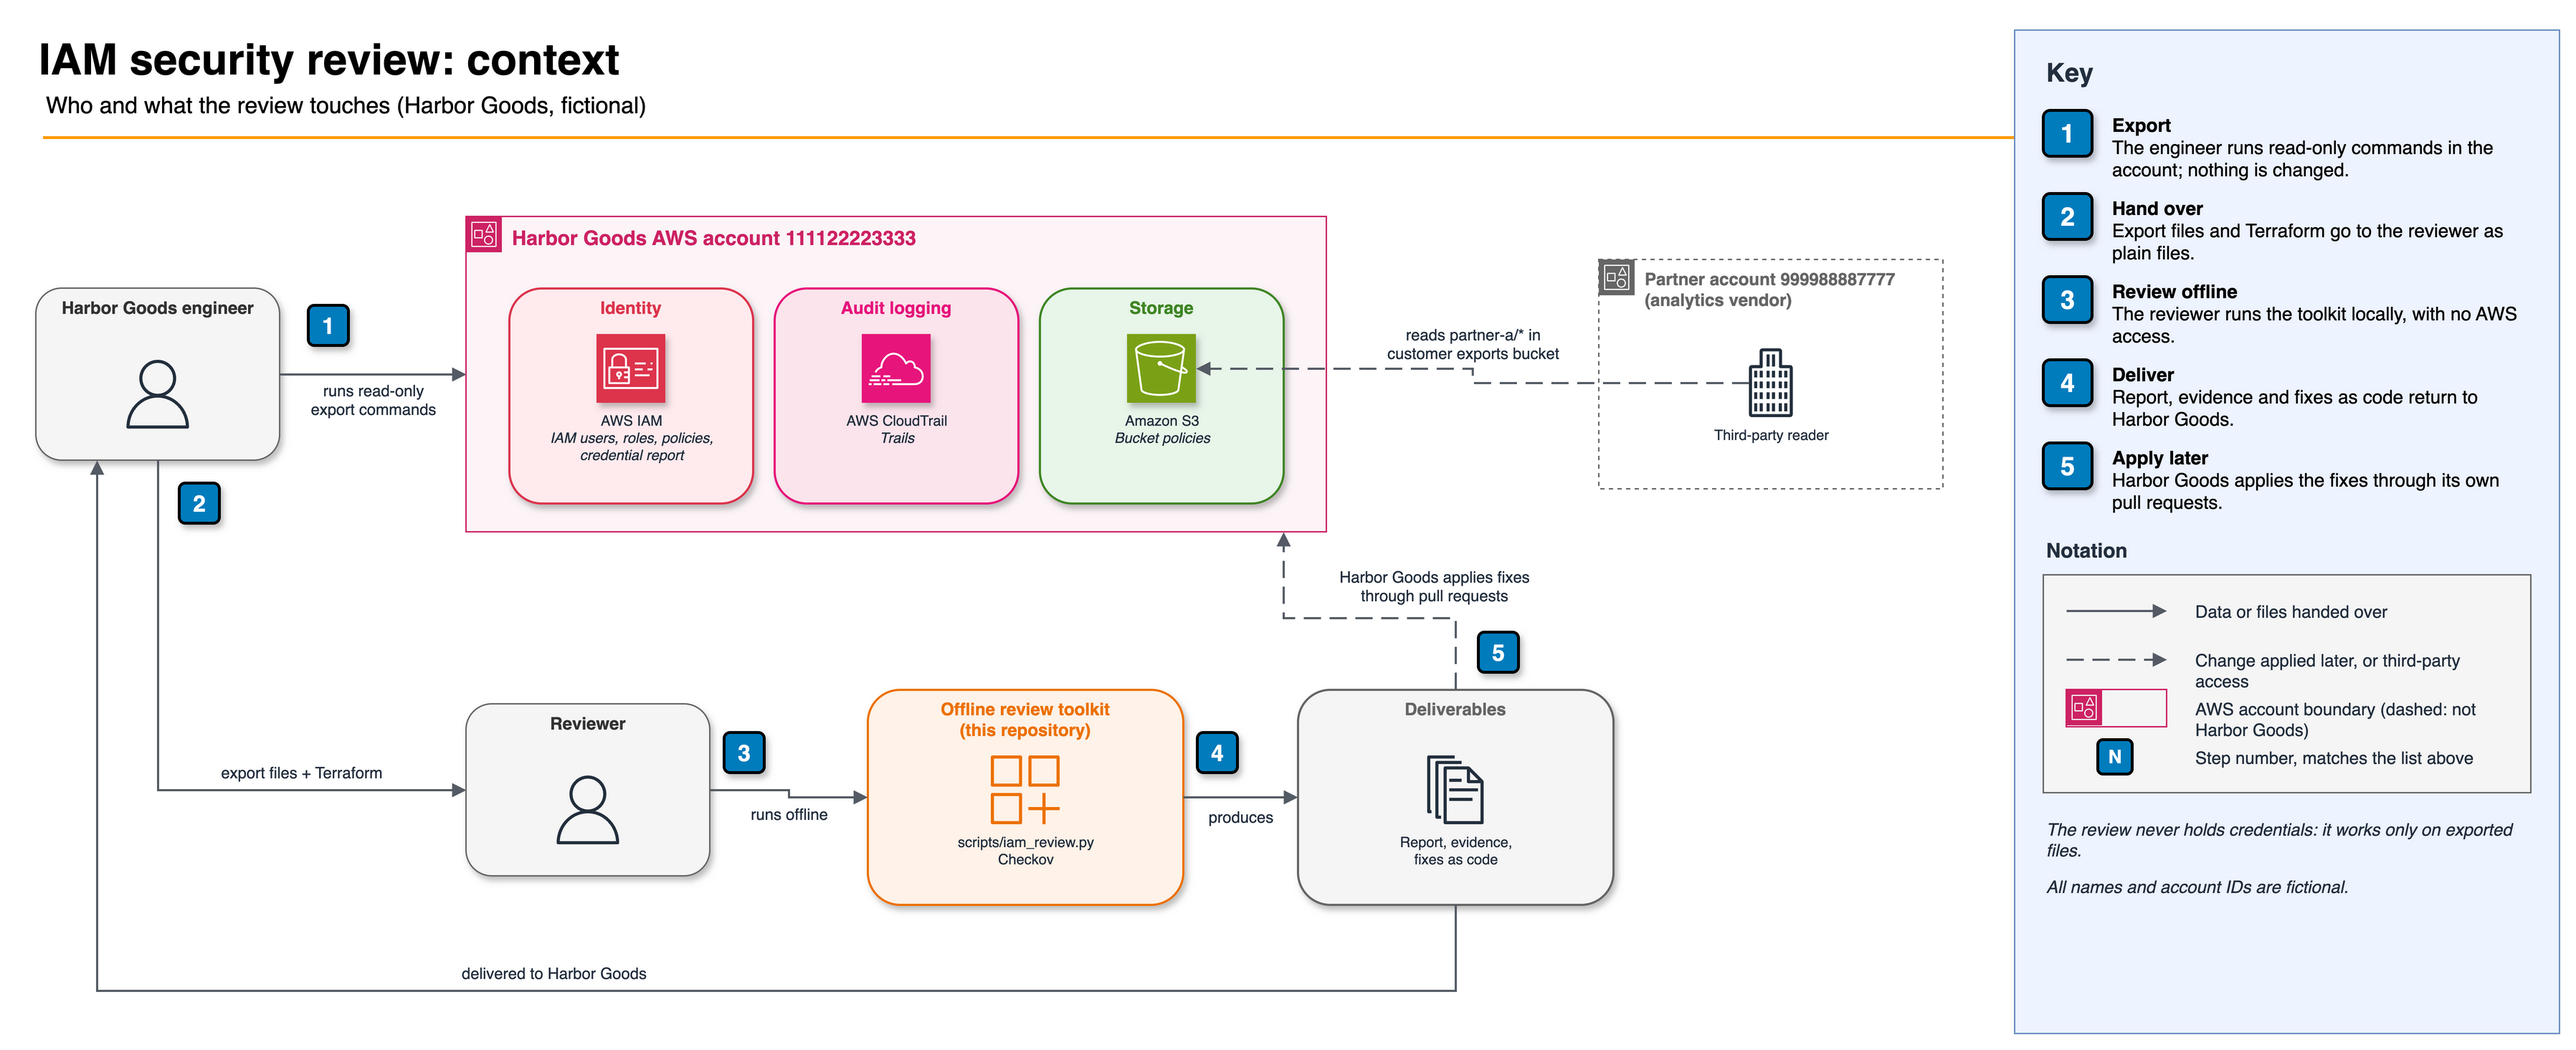
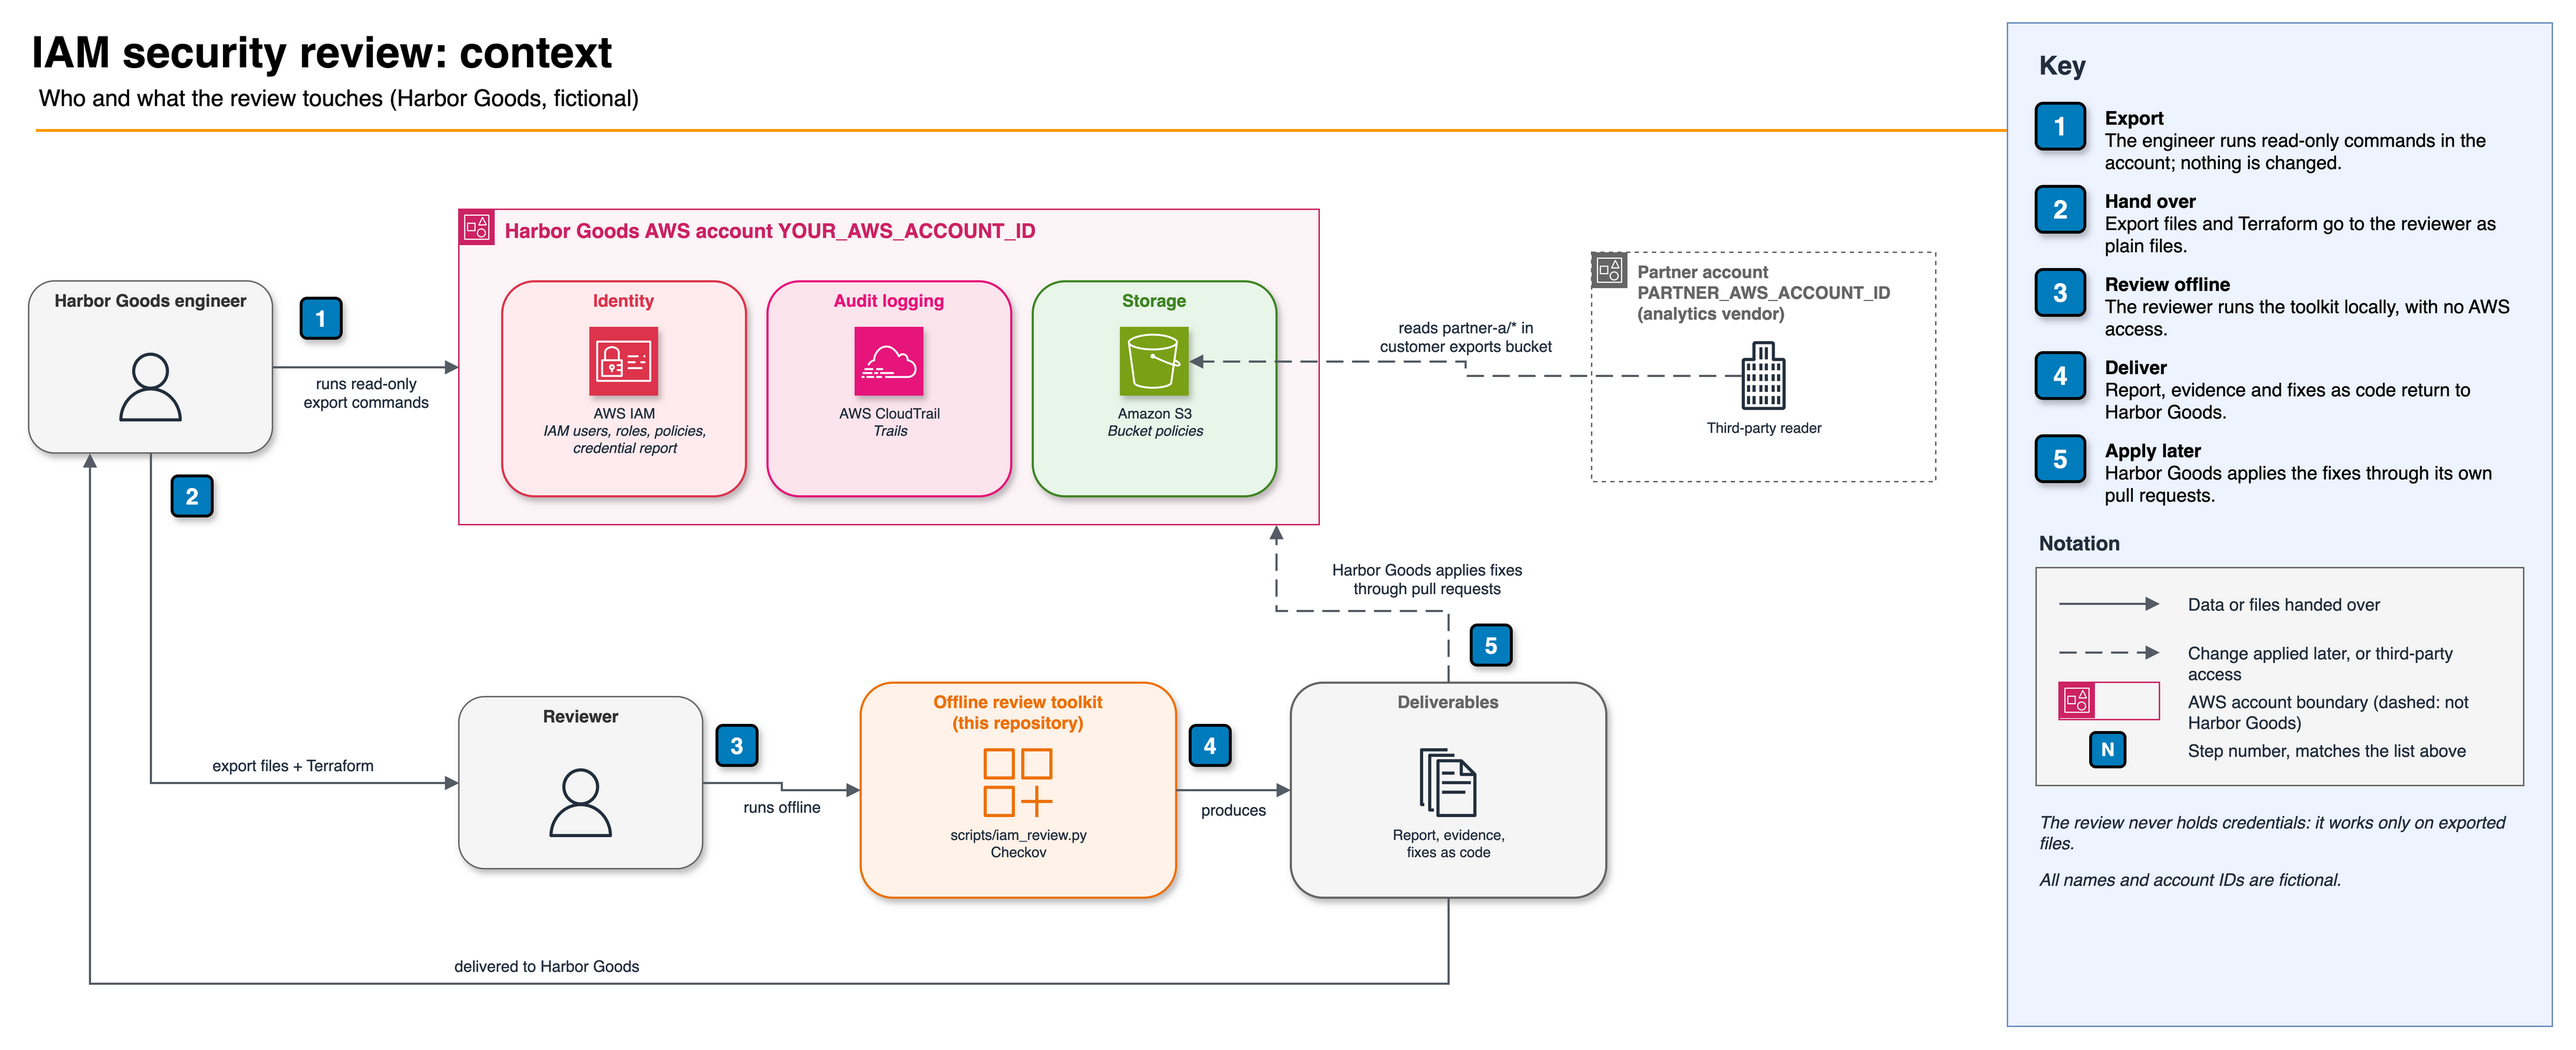
fix: placeholder account IDs and a neutral byline in the review and report

diff --git a/tests/test_report.py b/tests/test_report.py
@@ -6,6 +6,7 @@ files that `make evidence` produces, when a count drifts, or when a link breaks.
 
 from __future__ import annotations
 
+import json
 import re
 from pathlib import Path
 
@@ -32,6 +33,16 @@ def hits(text: str) -> list[str]:
     return [line for line in text.splitlines() if HIT.match(line)]
 
 
+def redact_account_ids(text: str) -> str:
+    """The report shows account IDs as placeholders; map the evidence the same way."""
+    scope_file = REPO / "data" / "synthetic" / "after" / "export" / "review-scope.json"
+    scope = json.loads(scope_file.read_text())
+    text = text.replace(scope["account_id"], "<account-id>")
+    for account in scope["trusted_account_ids"]:
+        text = text.replace(account, "<partner-account-id>")
+    return text
+
+
 def cited_hits() -> list[str]:
     blocks = re.findall(r"```text\n(.*?)```", REPORT, re.S)
     return [line for block in blocks for line in hits(block)]
@@ -42,7 +53,7 @@ def markdown_files() -> list[Path]:
 
 
 def test_every_quoted_hit_is_in_the_evidence_and_every_hit_is_quoted():
-    evidence = hits((EVIDENCE / "iam-review-before.txt").read_text())
+    evidence = hits(redact_account_ids((EVIDENCE / "iam-review-before.txt").read_text()))
     cited = cited_hits()
     assert sorted(set(cited)) == sorted(evidence)
 
@@ -102,3 +113,8 @@ def test_only_documentation_account_ids_appear():
             continue
         found |= set(re.findall(r"(?<![\w.-])\d{12}(?!\w)", path.read_text(errors="ignore")))
     assert found <= ALLOWED_ACCOUNT_IDS, sorted(found - ALLOWED_ACCOUNT_IDS)
+
+
+def test_report_shows_no_account_ids():
+    for text in (REPORT, EVIDENCE_MAP):
+        assert not re.findall(r"(?<![\w.-])\d{12}(?!\w)", text)

diff --git a/report/REPORT.md b/report/REPORT.md
@@ -1,19 +1,19 @@
 # AWS IAM and security configuration review
 
-> **This sample covers a FICTIONAL client, Harbor Goods, a mid-size retailer with account `111122223333`.**
+> **This sample covers a FICTIONAL client, Harbor Goods, a mid-size retailer with account `<account-id>`.**
 > The client, its staff and its account are fictional. Each repository in this portfolio is a separate
 > engagement with Harbor Goods, a fictional mid-size retailer. The repository files reproduce all findings below
 > through `make verify`.
 
 | Item | Value |
 | --- | --- |
-| Account | `111122223333` (fictional), home region `us-east-1` |
+| Account | `<account-id>` (fictional), home region `us-east-1` |
 | Method | Offline review of read-only exports plus the account's Terraform; no write access was used |
 | Inputs | [`data/synthetic/before/export/`](../data/synthetic/before/export/), [`data/synthetic/before/terraform/`](../data/synthetic/before/terraform/) |
 | Tools | [`scripts/iam_review.py`](../scripts/iam_review.py) (17 checks), Checkov 3.3.19 (Terraform) |
 | Method detail | [`docs/methodology.md`](../docs/methodology.md) |
 | Evidence | [`evidence/`](../evidence/) holds the unedited output of both tools |
-| Prepared by | Alex Garcia |
+| Prepared by | Independent AWS consultant |
 
 ## Executive summary
 
@@ -93,7 +93,7 @@ within one prefix and updating one Lambda function.
  "Resource": "arn:aws:s3:::harborgoods-release-artifacts/reporting-app/*"},
 {"Sid": "DeployOneFunction", "Effect": "Allow",
  "Action": ["lambda:GetFunction", "lambda:UpdateFunctionCode", "lambda:PublishVersion"],
- "Resource": "arn:aws:lambda:us-east-1:111122223333:function:reporting-app"}
+ "Resource": "arn:aws:lambda:us-east-1:<account-id>:function:reporting-app"}
 ```
 
 Validate the pipeline's required actions before the switch, using either 90 days of the role's CloudTrail events or
@@ -214,12 +214,12 @@ changes for role and policy updates rather than console edits.
 
 ```json
 {"Sid": "PassOnlyAppRolesToEc2WithMfa", "Effect": "Allow", "Action": "iam:PassRole",
- "Resource": "arn:aws:iam::111122223333:role/app-*",
+ "Resource": "arn:aws:iam::<account-id>:role/app-*",
  "Condition": {"StringEquals": {"iam:PassedToService": "ec2.amazonaws.com"},
                "Bool": {"aws:MultiFactorAuthPresent": "true"}}},
 {"Sid": "StopAndTerminatePlatformInstancesOnly", "Effect": "Allow",
  "Action": ["ec2:StopInstances", "ec2:TerminateInstances"],
- "Resource": "arn:aws:ec2:*:111122223333:instance/*",
+ "Resource": "arn:aws:ec2:*:<account-id>:instance/*",
  "Condition": {"StringEquals": {"aws:ResourceTag/team": "platform"}}}
 ```
 
@@ -291,17 +291,17 @@ Apply the secure bucket baseline to the destination bucket. Implementation is in
 **Evidence:**
 
 ```text
-MEDIUM   S3-002   s3://harborgoods-customer-exports: account 999988887777 allowed s3:*
+MEDIUM   S3-002   s3://harborgoods-customer-exports: account <partner-account-id> allowed s3:*
 ```
 
-**Impact.** The Sid identifies account `999988887777` as the analytics vendor. Its permissions cover reading,
+**Impact.** The Sid identifies account `<partner-account-id>` as the analytics vendor. Its permissions cover reading,
 overwriting and deleting all exports, plus changing bucket configuration. A grant to that account's root lets
 the vendor's IAM administrators decide which identities within the account receive access.
 
 **Recommended fix.** Document the vendor as an approved third party in the review scope. Authorize a single named
 role to list and read only its prefix. Give the bucket a separate KMS key, with a policy that permits the role to
 decrypt solely through S3 (`kms:ViaService`). This keeps the vendor from using the audit-log encryption key.
-The client verified the vendor relationship; the remediated scope therefore marks `999988887777` as trusted.
+The client verified the vendor relationship; the remediated scope therefore marks `<partner-account-id>` as trusted.
 
 **Scoped rewrite**
 ([`customer-exports-bucket-policy.json`](../remediation/policies/customer-exports-bucket-policy.json)):
@@ -311,11 +311,11 @@ The client verified the vendor relationship; the remediated scope therefore mark
  "Resource": ["arn:aws:s3:::harborgoods-customer-exports", "arn:aws:s3:::harborgoods-customer-exports/*"],
  "Condition": {"Bool": {"aws:SecureTransport": "false"}}},
 {"Sid": "PartnerListsItsPrefix", "Effect": "Allow",
- "Principal": {"AWS": "arn:aws:iam::999988887777:role/partner-ingest"}, "Action": "s3:ListBucket",
+ "Principal": {"AWS": "arn:aws:iam::<partner-account-id>:role/partner-ingest"}, "Action": "s3:ListBucket",
  "Resource": "arn:aws:s3:::harborgoods-customer-exports",
  "Condition": {"StringLike": {"s3:prefix": ["partner-a/*"]}}},
 {"Sid": "PartnerReadsItsPrefix", "Effect": "Allow",
- "Principal": {"AWS": "arn:aws:iam::999988887777:role/partner-ingest"}, "Action": "s3:GetObject",
+ "Principal": {"AWS": "arn:aws:iam::<partner-account-id>:role/partner-ingest"}, "Action": "s3:GetObject",
  "Resource": "arn:aws:s3:::harborgoods-customer-exports/partner-a/*"}
 ```
 

diff --git a/README.md b/README.md
@@ -11,8 +11,10 @@ An AWS security and IAM review with ranked findings, reproducible evidence and f
 > **Fictional sample.** Harbor Goods and all data here are fictional. Each repository in this portfolio is a
 > separate engagement with Harbor Goods, a fictional mid-size retailer. Account IDs are AWS documentation examples.
 
-The Harbor Goods production account is `111122223333`; its analytics vendor uses `999988887777`. The Terraform under
-`data/synthetic/before/` contains deliberate security weaknesses. Never apply it.
+Prose shows the Harbor Goods production account as `YOUR_AWS_ACCOUNT_ID` and its analytics vendor as
+`PARTNER_AWS_ACCOUNT_ID`; the report shows `<account-id>` and `<partner-account-id>`. Only the files the checks parse
+hold AWS documentation example IDs. The Terraform under `data/synthetic/before/` contains deliberate security
+weaknesses. Never apply it.
 
 ## Executive summary
 
@@ -163,8 +165,7 @@ Checks assert the deliberately insecure fixtures as expected findings; they neve
 
 This repository belongs to the [AWS DevOps portfolio](https://github.com/gamaware/aws-devops-portfolio) and supports
 the [AWS security and IAM review on Upwork](https://www.upwork.com/freelancers/~014b3520cf9e140103) service. The
-method is the one Alex uses in audits for ITESO and freelance clients in Guadalajara. All findings in this example
-were invented for Harbor Goods.
+method is the one used in real client audits. All findings in this example were invented for Harbor Goods.
 
 The repository uses the [MIT](LICENSE) license and inherits its contribution, support and security policies from
 [gamaware/.github](https://github.com/gamaware/.github). Additional information appears in

diff --git a/.github/copilot-instructions.md b/.github/copilot-instructions.md
@@ -3,8 +3,9 @@
 This repository is a sample AWS IAM security review for Harbor Goods, a fictional company.
 
 - `data/synthetic/before/` is insecure on purpose. Do not suggest fixing it; fixes live in `remediation/`.
-- Only AWS documentation example account IDs may appear: `111122223333`, `999988887777`, `444455556666`. Flag any
-  other 12-digit account ID, real ARN, email, IP address or secret.
+- Only the AWS documentation example account IDs that `tests/test_report.py` allows may appear, and only in parsed
+  data, policies, Terraform and its generated docs, scripts and tests. Prose uses `YOUR_AWS_ACCOUNT_ID`; the report
+  uses `<account-id>`. Flag any other 12-digit account ID, real ARN, email, IP address or secret.
 - `evidence/` is generated by `make evidence`; flag hand edits and evidence changes without a matching report update.
 - Flag suppressed lint rules and blanket scanner skips; Checkov skips need a reason next to the resource.
 - `scripts/` must stay Python standard library only, with no network or AWS calls. Shell scripts must pass

diff --git a/data/synthetic/before/README.md b/data/synthetic/before/README.md
@@ -1,8 +1,8 @@
 # Before: Harbor Goods account (FICTIONAL, insecure on purpose)
 
 > **Everything here is fictional and deliberately insecure. Do not apply this Terraform to any real account.**
-> Account `111122223333` and partner account `999988887777` are the AWS documentation placeholder IDs. The company,
-> the people and the repositories do not exist.
+> The account (`YOUR_AWS_ACCOUNT_ID`) and partner account (`PARTNER_AWS_ACCOUNT_ID`) use AWS documentation placeholder
+> IDs. The company, the people and the repositories do not exist.
 
 This folder is the "before" state that the review in [`report/`](../../../report/) assesses.
 

diff --git a/data/synthetic/README.md b/data/synthetic/README.md
@@ -1,7 +1,8 @@
 # Synthetic data: Harbor Goods (FICTIONAL)
 
-Harbor Goods is a fictional mid-size retailer. Its AWS account `111122223333` and its analytics vendor's account
-`999988887777` are AWS documentation example IDs. No file here was exported from a real account.
+Harbor Goods is a fictional mid-size retailer. Its AWS account (`YOUR_AWS_ACCOUNT_ID`) and its analytics vendor's
+account (`PARTNER_AWS_ACCOUNT_ID`) use AWS documentation example IDs in the exports. No file here was exported
+from a real account.
 
 | Path | State | Read by |
 | --- | --- | --- |

diff --git a/CHANGELOG.md b/CHANGELOG.md
@@ -30,6 +30,8 @@ rather than Semantic Versioning.
 - Moved to the portfolio's sample-deliverable layout (`report/`, `evidence/`, `data/synthetic/`, `scripts/`,
   `tests/`, `remediation/`) and renamed the fictional client to Harbor Goods.
 - Contribution guide and issue and pull request templates are now inherited from `gamaware/.github`.
+- The report, its PDF, the docs and the context diagram show account IDs as placeholders (`<account-id>`,
+  `YOUR_AWS_ACCOUNT_ID`) and carry no personal byline; only files the checks parse keep example IDs.
 
 ### Fixed
 

diff --git a/report/control-evidence-map.md b/report/control-evidence-map.md
@@ -1,6 +1,6 @@
 # SOC 2 control to evidence map
 
-> **Sample for a FICTIONAL client, Harbor Goods (account `111122223333`).** This is an evidence map, not an audit
+> **Sample for a FICTIONAL client, Harbor Goods (account `<account-id>`).** This is an evidence map, not an audit
 > opinion. It shows which AWS configuration supports each SOC 2 criterion and where the proof lives, so the client's
 > auditor can test it. Only a licensed CPA firm can issue a SOC 2 report or conclude that a control is designed or
 > operating effectively.
